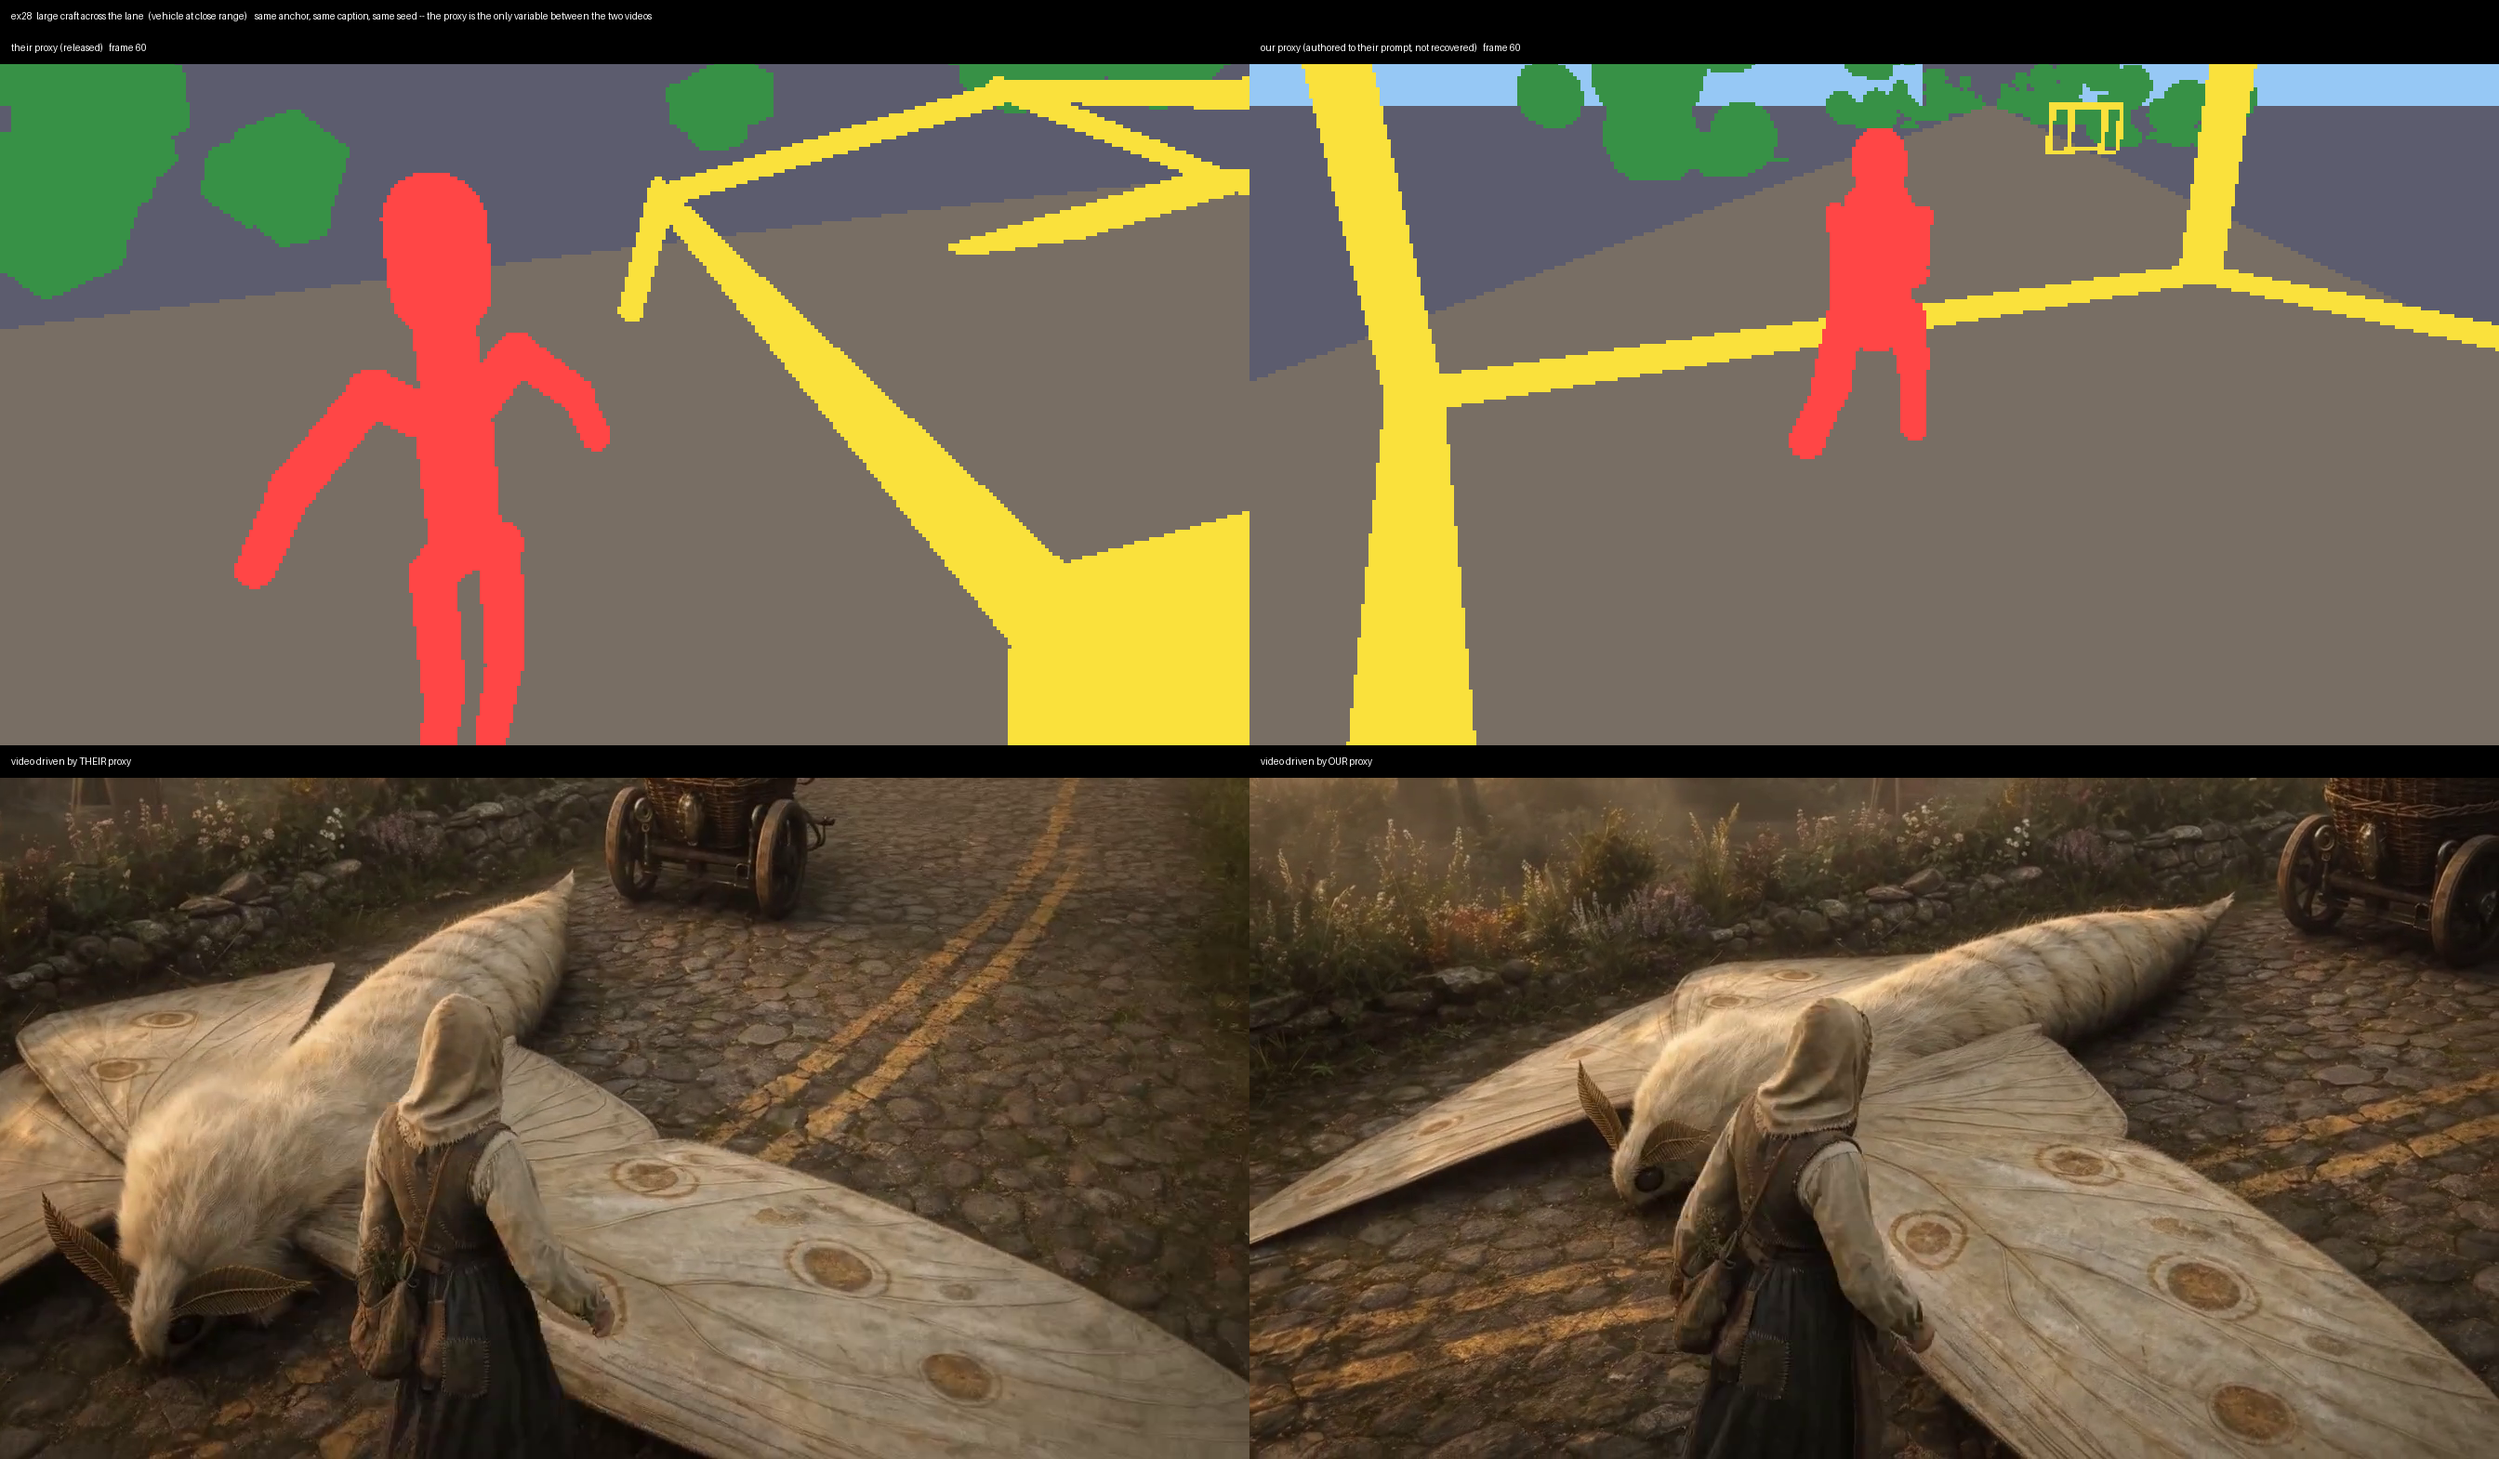
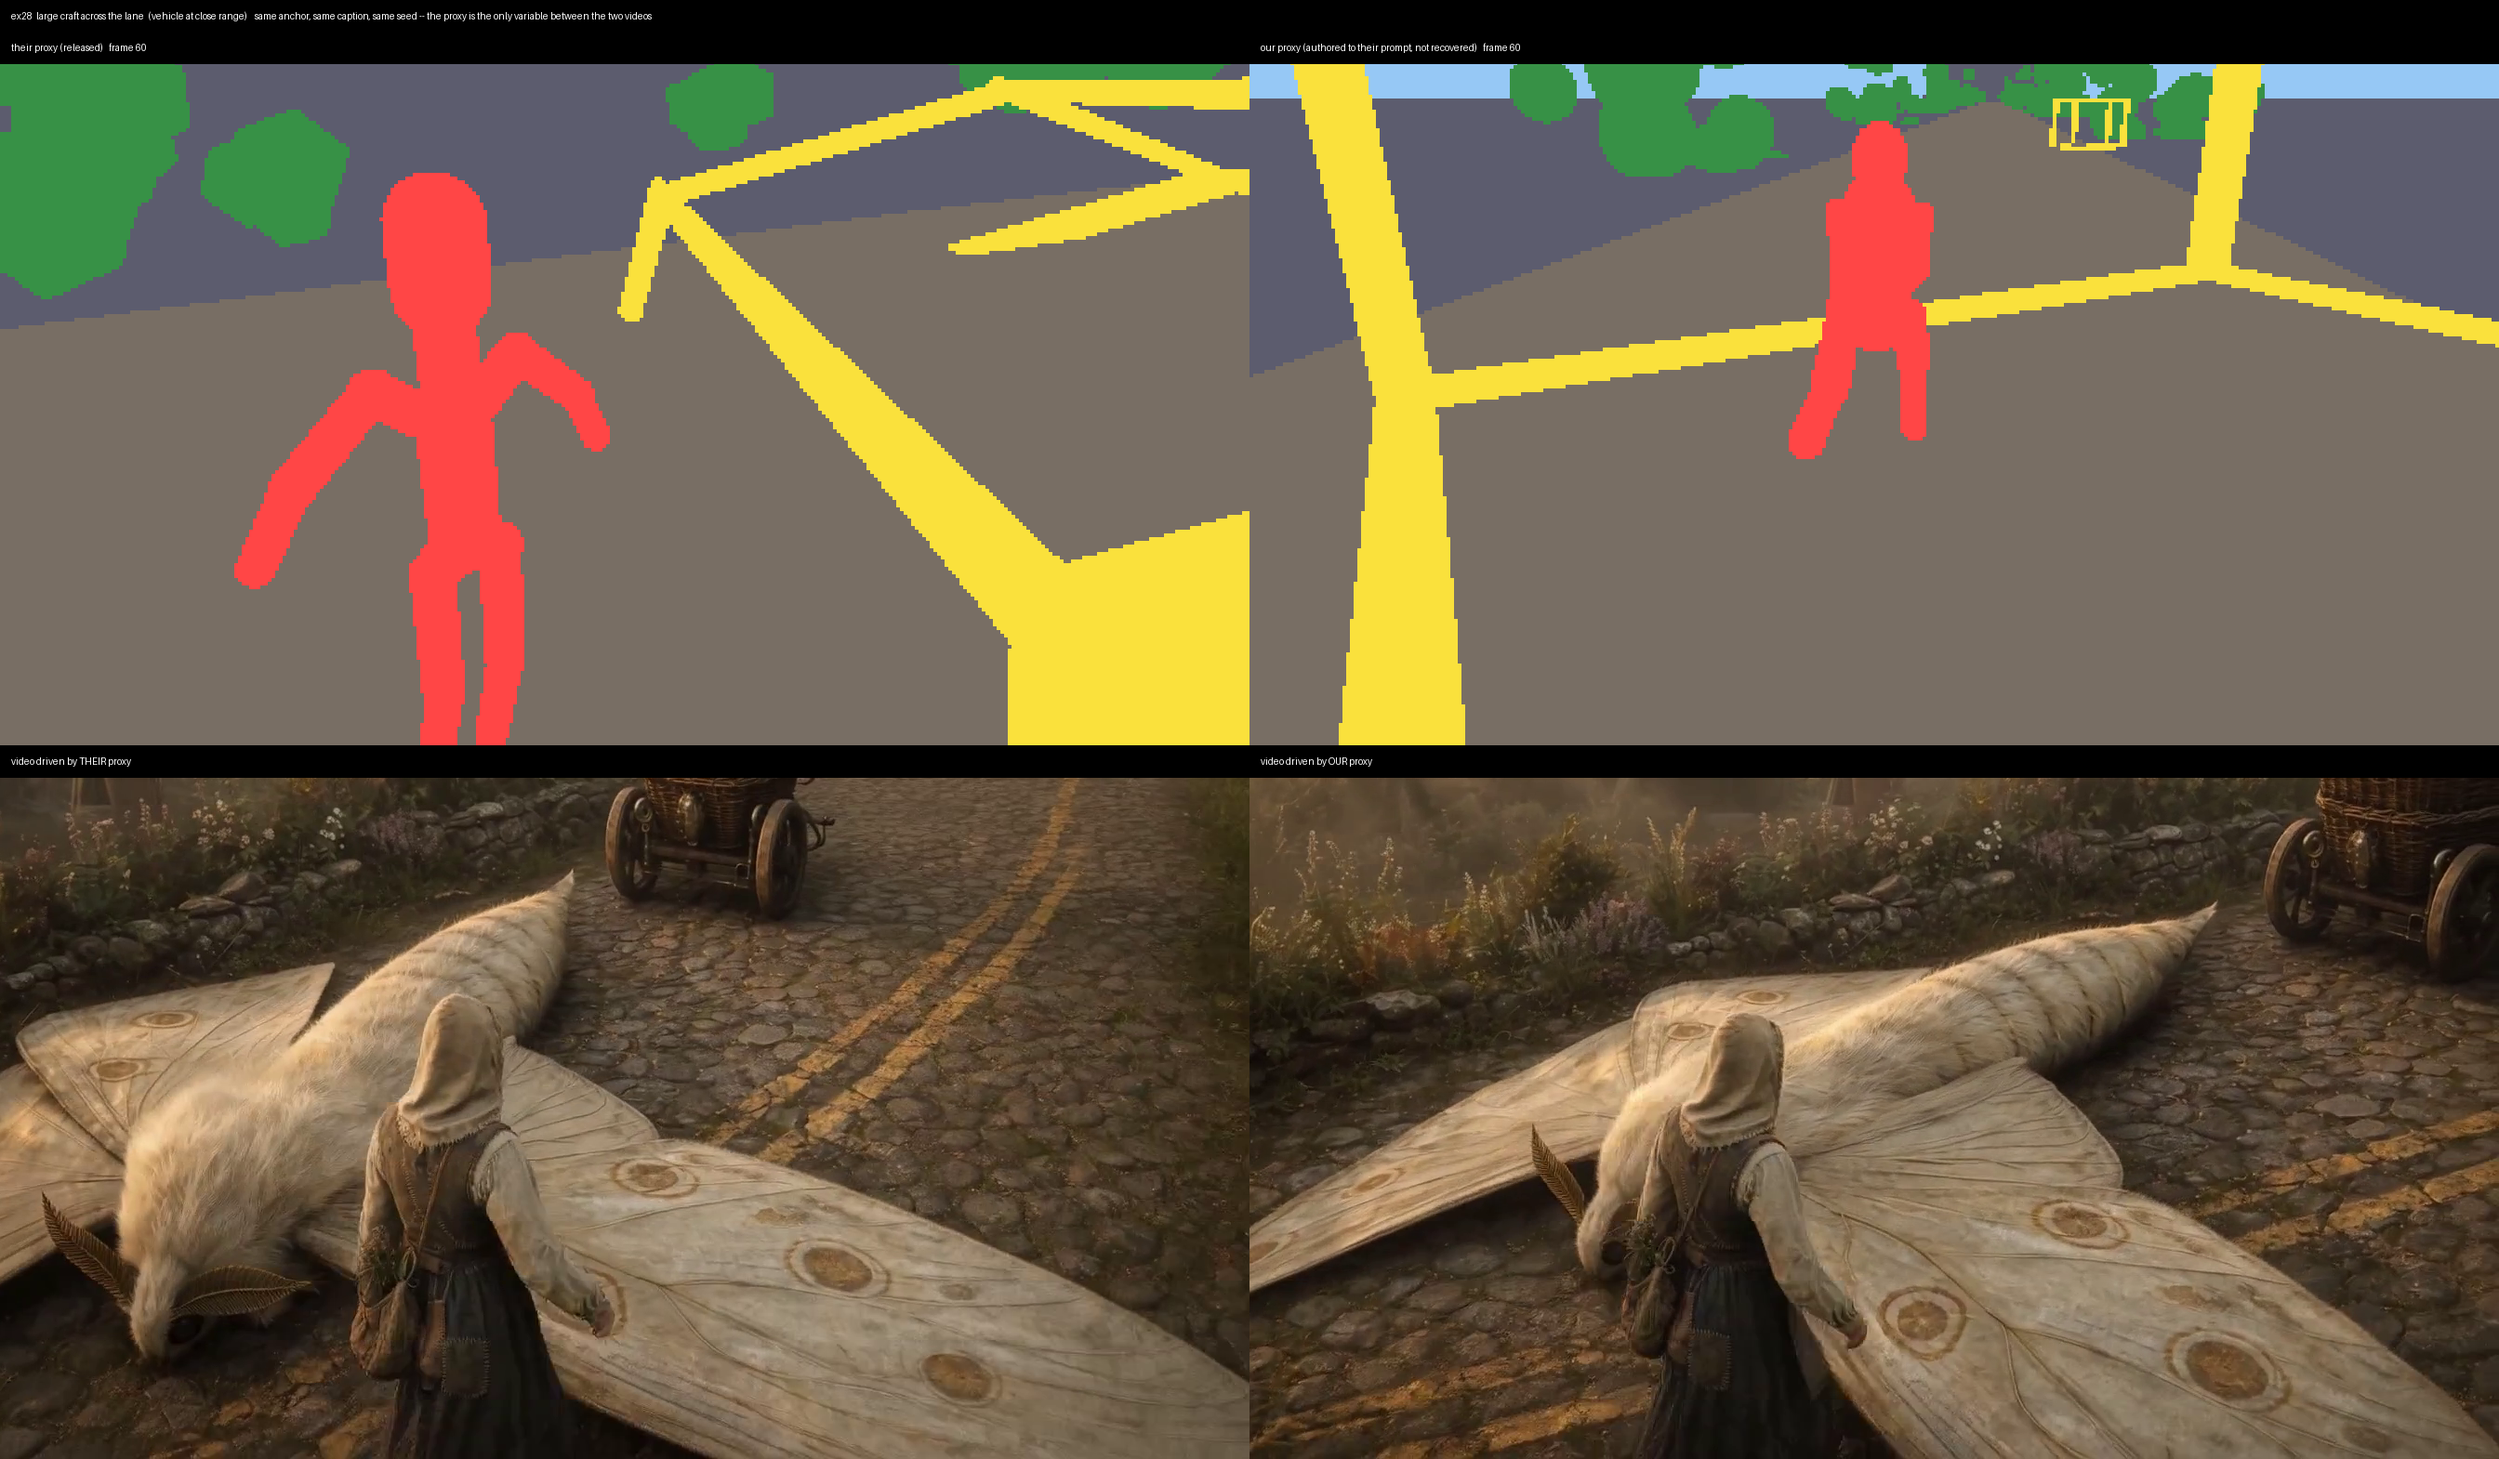
ship at the measured 206 px intrinsic, not 202
The README claims conditions at the released camera intrinsics, measured at
206.6 px (IQR [204, 207] over 97 estimates), while StreetSpec and
FollowCamera shipped 202.0 -- so our own takes, including the comparison
figures, rendered at 202. 202 came from an operating point fitted against a
reference file that is not part of this repository, so it cannot even be
re-derived here; the measurement can.

202 was not load-bearing. With 206 the bundled take still reports invariants
clean, conditions clean and captions matching, and class occupancy moves by
at most 0.2 points (scenery 0.360 -> 0.362, sky 0.276 -> 0.274).

Regenerated at 206: the six repro proxies, the six our-arm videos (same
anchor, caption and seed as before, so the comparison still holds), and the
six comparison sheets. Only our arm was re-run -- the other arm is driven by
the authors own conditions, which have not changed.

Effect on the six is tiny and mixed. Against their class mix, L1 improves for
ex30 (12.94 -> 11.74), ex31 (14.23 -> 13.75) and ex36 (21.61 -> 20.86), and
worsens slightly for ex18 (12.36 -> 12.93), ex28 (24.33 -> 24.54) and ex34
(30.44 -> 30.91). All under 0.6 points; none is visible in the figures. Kept
regardless: the point is to match their intrinsic, not to flatter our numbers.

Also drops the README paragraph documenting the 202/206 mismatch, keeping its
measurement-provenance sentence verbatim.

diff --git a/test_actions.py b/test_actions.py
@@ -371,7 +371,7 @@ def t_water_surface():
     from world.state import KIND_TO_CLASS
 
     ok = True
-    cam = Camera(focal_px=202.0, position=np.array([0.0, -1.83, 0.0]), pitch_deg=-8.0,
+    cam = Camera(focal_px=206.0, position=np.array([0.0, -1.83, 0.0]), pitch_deg=-8.0,
                  yaw_deg=0.0)
 
     wet = build(StreetSpec())
@@ -422,7 +422,7 @@ def t_class_vocabulary():
 
     ok = True
     plan, _, _ = simulate_take(check=False)
-    cam = Camera(focal_px=202.0, position=np.array([0.0, -1.83, 0.0]), pitch_deg=-8.0)
+    cam = Camera(focal_px=206.0, position=np.array([0.0, -1.83, 0.0]), pitch_deg=-8.0)
     seen = set()
     # Sample across the take so every kind that ever spawns is covered, the broom included.
     for k in (0, 120, 200, 260, 330, 400, 460, 483):

diff --git a/world/scenes.py b/world/scenes.py
@@ -26,7 +26,12 @@ class StreetSpec:
     """Everything that varies between takes. Ranges are documented in batch.sample_spec."""
 
     seed: int = 33
-    focal_px: float = 202.0
+    # The released intrinsic, measured from their depth maps by an estimator validated on
+    # known-answer synthetic data and cross-checked by a second mechanism: 206.6 px at
+    # 336x192, IQR [204, 207] over 97 estimates. This used to be 202.0, carried over from
+    # an operating point fitted against a reference file that is not part of this
+    # repository; 206.0 matches `compiler.render.Camera` and the measurement.
+    focal_px: float = 206.0
     cam_height: float = 1.83
     aim_height: float = 1.20
     boom_len: float = 2.40

diff --git a/compiler/follow.py b/compiler/follow.py
@@ -26,7 +26,7 @@ class FollowCamera:
     distance: float = 1.55
     height: float = 1.83
     pitch_deg: float = -8.0
-    focal_px: float = 202.0
+    focal_px: float = 206.0   # the measured released intrinsic; see StreetSpec
     shoulder_offset: float = 0.45
     boom_tau: float = 0.55
     aim_tau: float = 0.12

diff --git a/README.md b/README.md
@@ -88,10 +88,7 @@ finding.) Pitch and camera height are **not** fixed: they vary per example and w
 camera height ranges from 1.6 m to 231 m across the 40, and one example's horizon moves 100 rows
 in 124 frames. There is no single rig to recover.
 
-**A known inconsistency:** `Camera.focal_px` defaults to 206.0, but the bundled street scene
-(`StreetSpec.focal_px`) ships at 202.0, so our own takes — including the comparison figures below
-— render at 202. Both sit inside the measured IQR, but if you are matching the released format
-exactly, set it to 206. We recovered it from the released depth maps with an
+We recovered it from the released depth maps with an
 estimator validated against known-answer synthetic data before use, cross-checked by a second
 independent mechanism: **206.6 px, IQR [204, 207] across 97 estimates.**
 
